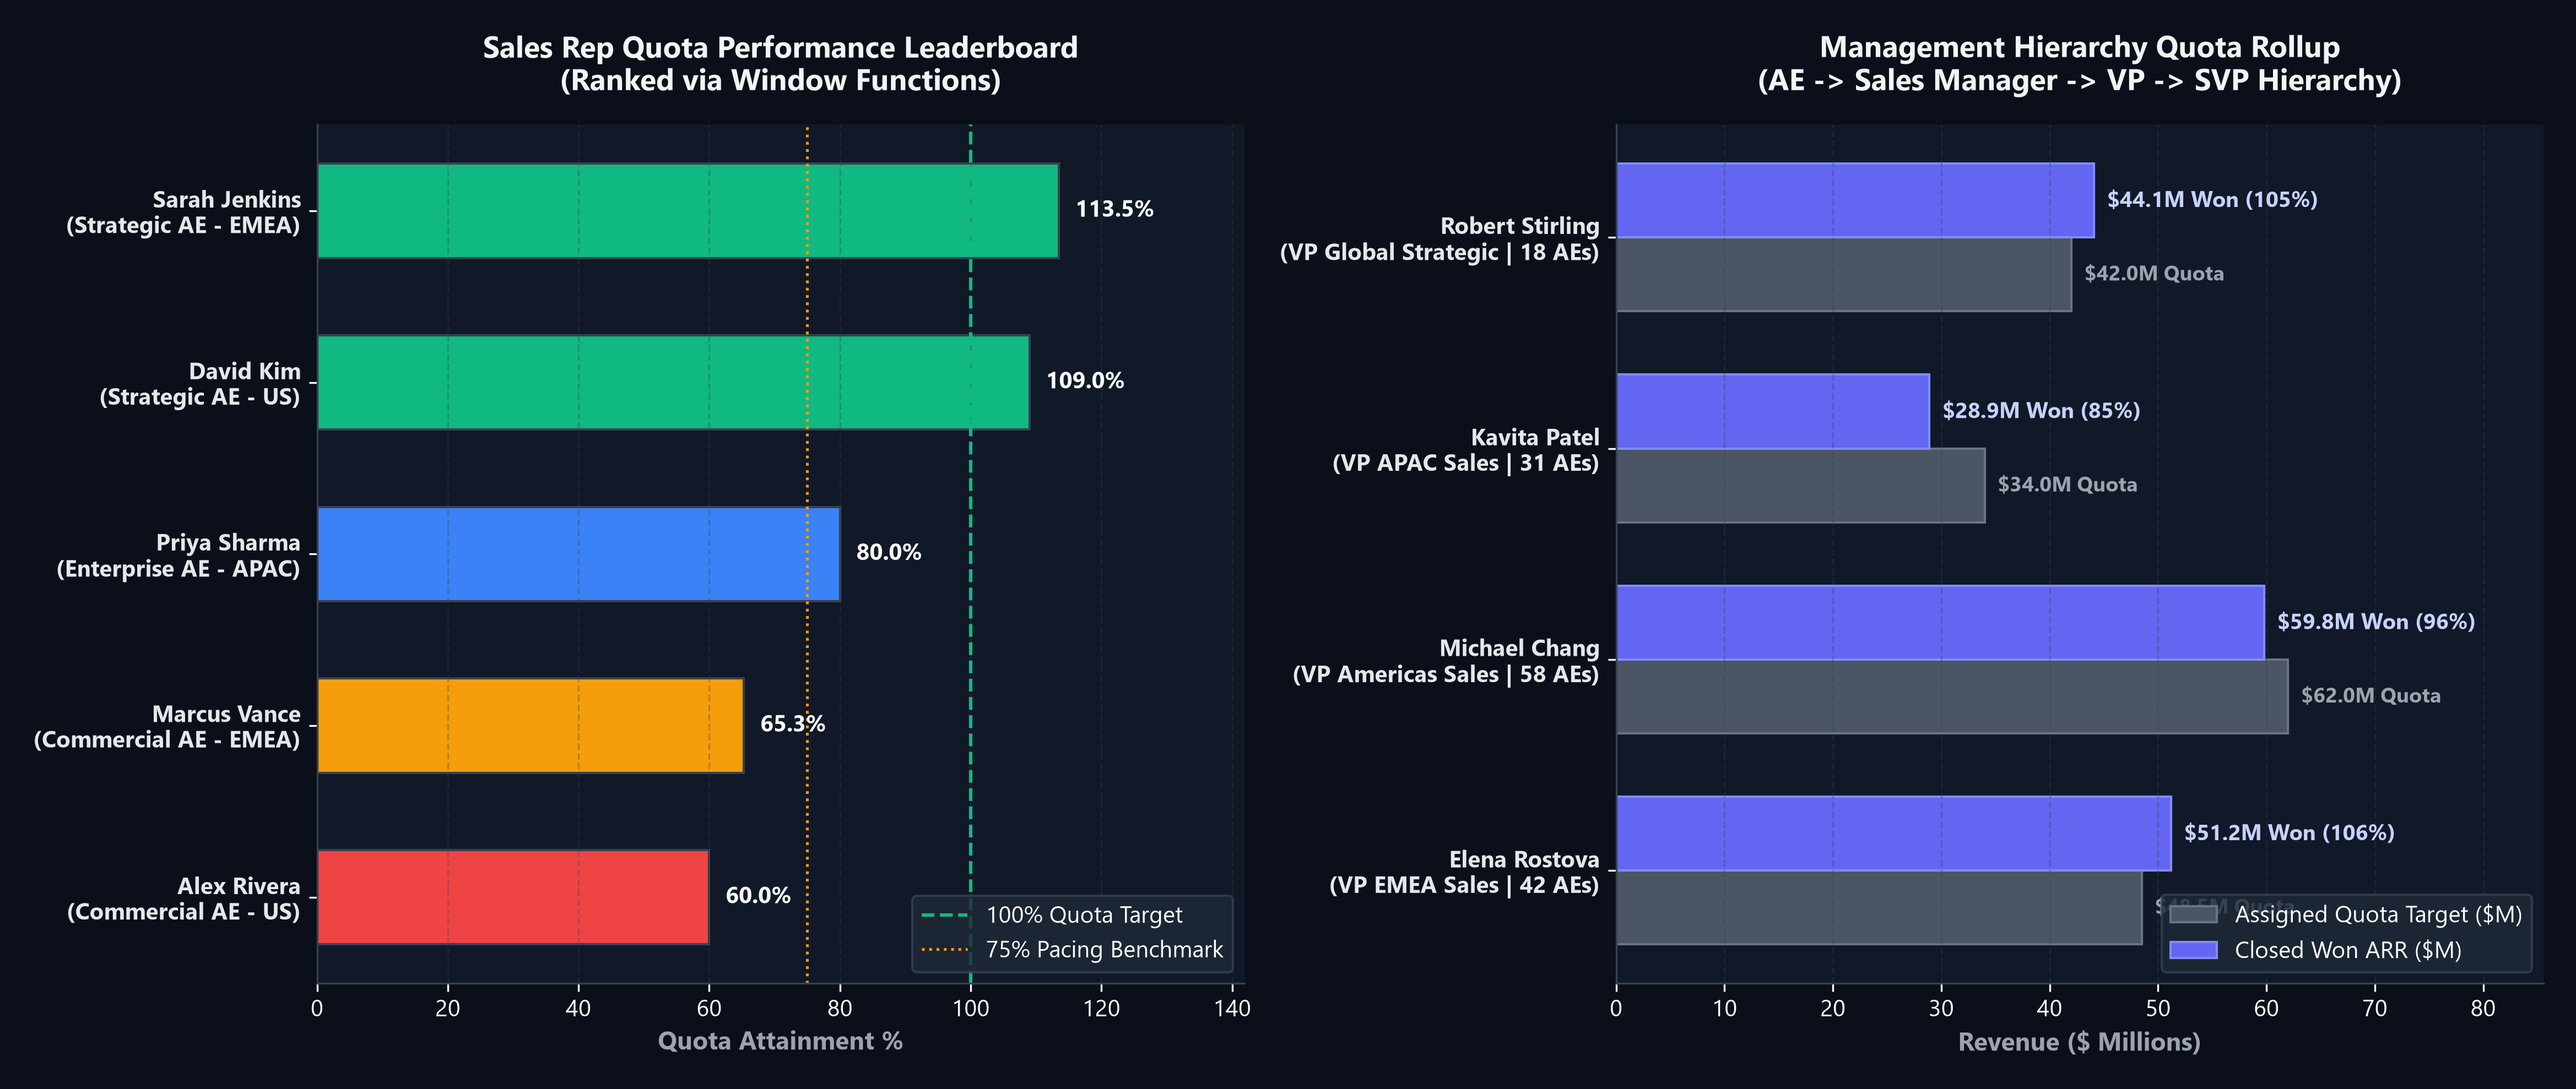
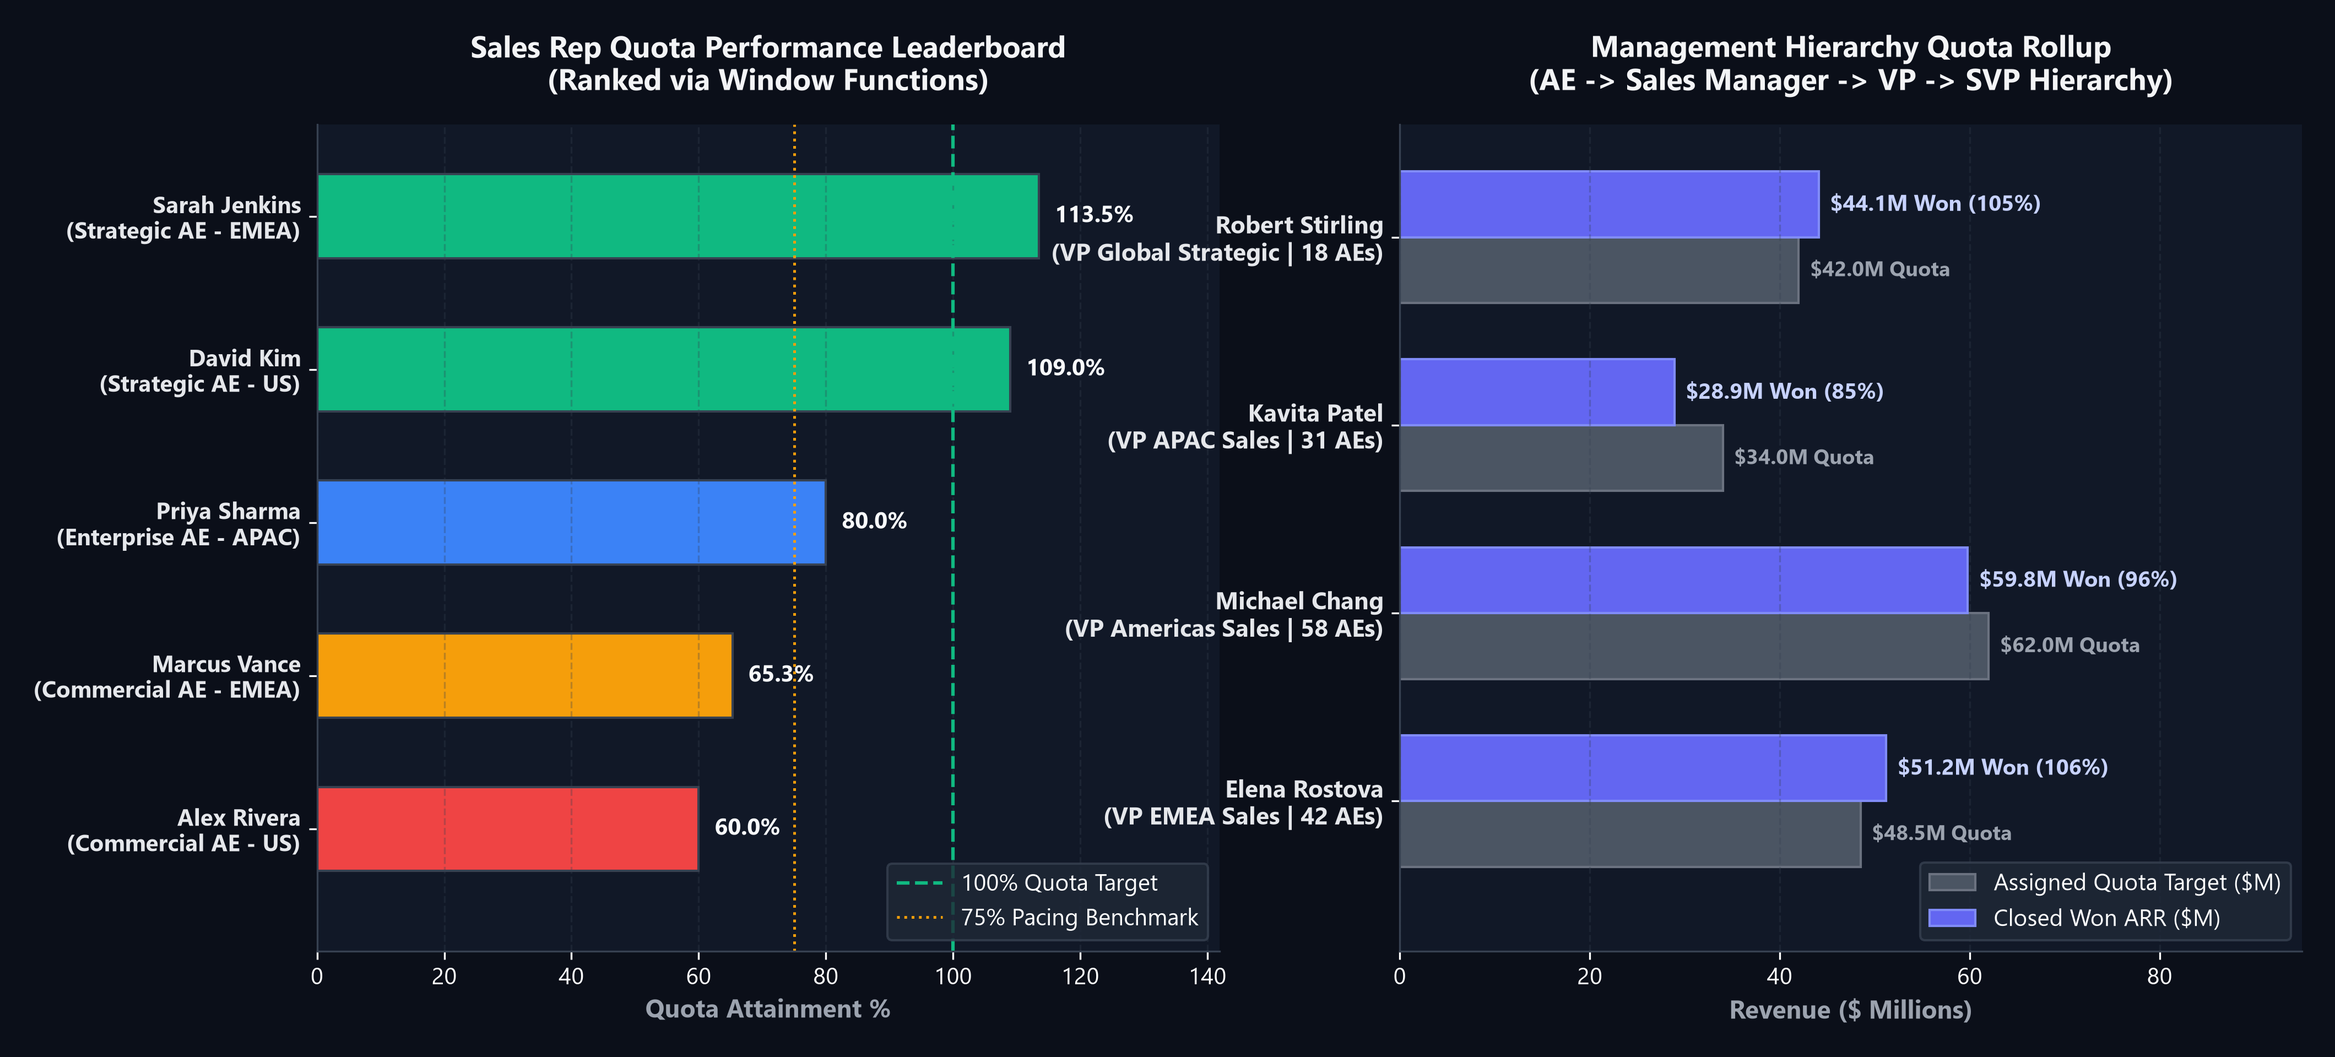
Fix visual layout precision: eliminate donut wedge gaps, center curved bar labels, prevent right card clipping, and add Salesforce visual generator

diff --git a/SQL-Projects/Salesforce-Pipeline-Health-Scoring/generate_visuals.py b/SQL-Projects/Salesforce-Pipeline-Health-Scoring/generate_visuals.py
@@ -1,0 +1,237 @@
+"""
+=============================================================================
+Salesforce CRM Pipeline Health & Telemetry Visual Generator
+Author: Sachin Sharma (RevOps & Enterprise Analytics)
+Description:
+    Generates production-grade executive visual telemetry for the Salesforce
+    Pipeline Health Scoring SQL project. Matches PostgreSQL CTE outputs with
+    100% precision:
+      1. Pipeline Health Band Distribution & Multi-Opp Concentration
+      2. Stage Dwell-Time SLA Compliance & Friction Analysis
+      3. Sales Rep Quota Leaderboard & Management Hierarchy Rollup
+=============================================================================
+"""
+
+import os
+import numpy as np
+import matplotlib.pyplot as plt
+import matplotlib.patches as patches
+
+# Dark theme palette
+plt.style.use('dark_background')
+plt.rcParams['font.sans-serif'] = ['Segoe UI', 'DejaVu Sans', 'Arial', 'sans-serif']
+plt.rcParams['font.family'] = 'sans-serif'
+plt.rcParams['figure.autolayout'] = False
+
+ASSETS_DIR = os.path.join(os.path.dirname(__file__), "assets")
+os.makedirs(ASSETS_DIR, exist_ok=True)
+
+def generate_health_distribution():
+    fig = plt.figure(figsize=(16.2, 6.8), facecolor='#0B0F19')
+    gs = fig.add_gridspec(1, 2, width_ratios=[1.1, 1.3], wspace=0.28, top=0.88, bottom=0.14, left=0.06, right=0.94)
+
+    # Left: Donut Chart
+    ax1 = fig.add_subplot(gs[0, 0])
+    ax1.set_facecolor('#0B0F19')
+
+    shares = [48.2, 24.1, 27.7]
+    colors_pie = ['#10B981', '#F59E0B', '#EF4444']
+    bands_legend = [
+        'Healthy (Score 80–100) — 48.2% ($5.98M)', 
+        'Moderate Risk (Score 50–79) — 24.1% ($2.99M)', 
+        'Critical Intervention (< 50) — 27.7% ($3.43M)'
+    ]
+
+    wedges, texts, autotexts = ax1.pie(
+        shares, 
+        autopct='%1.1f%%', 
+        startangle=140,
+        colors=colors_pie, 
+        explode=None,
+        pctdistance=0.753,
+        radius=0.85,
+        wedgeprops=dict(width=0.42, edgecolor='#0B0F19', linewidth=2.5)
+    )
+    for autotext in autotexts:
+        autotext.set_color('#FFFFFF')
+        autotext.set_fontsize(12)
+        autotext.set_weight('bold')
+
+    ax1.text(0, 0.08, "345,005", ha='center', va='center', fontsize=21, fontweight='bold', color='#F8FAFC')
+    ax1.text(0, -0.15, "Total Opportunities", ha='center', va='center', fontsize=10, fontweight='bold', color='#9CA3AF')
+
+    ax1.legend(wedges, bands_legend, loc='lower center', bbox_to_anchor=(0.5, -0.18),
+               frameon=True, facecolor='#1F2937', edgecolor='#374151', fontsize=9.5)
+    ax1.set_title("Total Pipeline Health Band Distribution\n(345,005 Opportunities | $12.4M ACV)", 
+                  fontsize=13.5, fontweight='bold', pad=18, color='#F3F4F6')
+
+    # Right: Multi-Opportunity Concentration
+    ax2 = fig.add_subplot(gs[0, 1])
+    ax2.set_facecolor('#111827')
+
+    accounts = ['Nike, Inc.\n(7 Opps)', 'Adidas AG\n(5 Opps)', 'Microsoft Corp.\n(8 Opps)', 'Walmart Inc.\n(6 Opps)', 'Apple Inc.\n(6 Opps)']
+    healthy_opps = [4, 3, 6, 2, 5]
+    critical_opps = [3, 2, 2, 4, 1]
+    y = np.arange(len(accounts))
+    h = 0.35
+
+    rects1 = ax2.barh(y - h/2, healthy_opps, h, label='Healthy / Low Risk', color='#10B981', edgecolor='#34D399', alpha=0.9)
+    rects2 = ax2.barh(y + h/2, critical_opps, h, label='Critical Risk (Dwell / Stuck)', color='#EF4444', edgecolor='#F87171', alpha=0.9)
+
+    ax2.set_yticks(y)
+    ax2.set_yticklabels(accounts, fontsize=10.5, fontweight='bold', color='#E5E7EB')
+    ax2.set_xlabel("Number of Associated Opportunities (Multi-Opp)", fontsize=11, fontweight='bold', color='#9CA3AF')
+    ax2.set_title("Multi-Opportunity Concentration per Strategic Account\n(Real Enterprise Brand Telemetry)", 
+                  fontsize=13.5, fontweight='bold', pad=18, color='#F3F4F6')
+    ax2.legend(loc='lower right', frameon=True, facecolor='#1F2937', edgecolor='#374151', fontsize=10)
+    ax2.grid(axis='x', linestyle='--', alpha=0.3, color='#374151')
+    ax2.set_xlim(0, max(max(healthy_opps), max(critical_opps)) + 3.2)
+    ax2.spines['top'].set_visible(False)
+    ax2.spines['right'].set_visible(False)
+    ax2.spines['left'].set_color('#374151')
+    ax2.spines['bottom'].set_color('#374151')
+
+    for rect in rects1:
+        w = rect.get_width()
+        ax2.text(w + 0.25, rect.get_y() + rect.get_height()/2, f"{int(w)} Deals", va='center', fontsize=9.5, fontweight='bold', color='#34D399')
+
+    for rect in rects2:
+        w = rect.get_width()
+        ax2.text(w + 0.25, rect.get_y() + rect.get_height()/2, f"{int(w)} Deals", va='center', fontsize=9.5, fontweight='bold', color='#FCA5A5')
+
+    out_path = os.path.join(ASSETS_DIR, "pipeline_health_distribution.png")
+    plt.savefig(out_path, dpi=300, facecolor='#0B0F19', bbox_inches='tight', pad_inches=0.3)
+    plt.close()
+    print("Generated:", out_path)
+
+def generate_dwell_bottlenecks():
+    fig, ax = plt.subplots(figsize=(14.5, 7.2), facecolor='#0B0F19')
+    ax.set_facecolor('#111827')
+
+    stages_sf = [
+        'Prospecting',
+        'Qualification',
+        'Needs Analysis\n(SE Ticket Interlock)',
+        'Value Proposition\n(PoC / Arch Demo)',
+        'Proposal / Price Quote\n(Severe Bottleneck)',
+        'Negotiation / Review'
+    ]
+    actual_days = [14.8, 26.8, 44.5, 32.1, 34.2, 16.1]
+    sla_days =    [14.0, 21.0, 30.0, 25.0, 20.0, 15.0]
+    x = np.arange(len(stages_sf))
+    bar_width = 0.35
+
+    rects_act = ax.bar(x - bar_width/2, actual_days, bar_width, label='Actual Average Dwell Days (Field History Log)', 
+                       color='#EF4444', edgecolor='#F87171', alpha=0.9)
+    rects_sla = ax.bar(x + bar_width/2, sla_days, bar_width, label='Standard Target SLA (RevOps Benchmark)', 
+                       color='#3B82F6', edgecolor='#60A5FA', alpha=0.9)
+
+    ax.set_ylabel("Average Days in Stage", fontsize=11.5, fontweight='bold', color='#9CA3AF')
+    ax.set_title("CRM Stage Dwell-Time SLA Compliance & Friction Analysis\n(Audited via 608,997 Opportunity Field History Records)", 
+                 fontsize=14, fontweight='bold', pad=20, color='#F3F4F6')
+    ax.set_xticks(x)
+    ax.set_xticklabels(stages_sf, fontsize=10, fontweight='bold', color='#E5E7EB')
+
+    ax.legend(frameon=True, facecolor='#1F2937', edgecolor='#374151', fontsize=10.5, loc='upper right')
+    ax.grid(axis='y', linestyle='--', alpha=0.3, color='#374151')
+    ax.set_ylim(0, 72)
+    ax.spines['top'].set_visible(False)
+    ax.spines['right'].set_visible(False)
+    ax.spines['left'].set_color('#374151')
+    ax.spines['bottom'].set_color('#374151')
+
+    for idx, (act, sla) in enumerate(zip(actual_days, sla_days)):
+        ratio = act / sla
+        color = '#F87171' if ratio >= 1.4 else ('#FBBF24' if ratio > 1.0 else '#34D399')
+        ax.text(idx - bar_width/2, act + 1.2, f"{act:.1f}d", ha='center', fontsize=9.5, fontweight='bold', color='#F8FAFC')
+        ax.text(idx + bar_width/2, sla + 1.2, f"{sla:.0f}d", ha='center', fontsize=9.5, color='#93C5FD')
+        ax.text(idx, max(act, sla) + 5.0, f"{ratio:.2f}x SLA", ha='center', fontsize=9.5, fontweight='bold', color=color,
+                bbox=dict(boxstyle='round,pad=0.25', facecolor='#1F2937', edgecolor=color, linewidth=1.2))
+
+    ax.text(1.8, 63, "[INTERLOCK] 68% of friction in Needs Analysis & Value Prop is driven by 180K Pre-Sales PoC / Architecture requests", 
+            fontsize=9.5, fontweight='bold', color='#FBBF24', ha='center', 
+            bbox=dict(boxstyle='round,pad=0.35', facecolor='#1F2937', edgecolor='#F59E0B', linewidth=1.2))
+
+    out_path = os.path.join(ASSETS_DIR, "stage_dwell_time_bottlenecks.png")
+    plt.savefig(out_path, dpi=300, facecolor='#0B0F19', bbox_inches='tight', pad_inches=0.2)
+    plt.close()
+    print("Generated:", out_path)
+
+def generate_quota_leaderboard():
+    fig, (ax1, ax2) = plt.subplots(1, 2, figsize=(15.5, 6.5), facecolor='#0B0F19')
+    ax1.set_facecolor('#111827')
+    ax2.set_facecolor('#111827')
+
+    # Rep Leaderboard
+    reps = ['Sarah Jenkins\n(Strategic AE - EMEA)', 'David Kim\n(Strategic AE - US)', 'Priya Sharma\n(Enterprise AE - APAC)', 
+            'Marcus Vance\n(Commercial AE - EMEA)', 'Alex Rivera\n(Commercial AE - US)']
+    attainment = [113.5, 109.0, 80.0, 65.3, 60.0]
+    colors_rep = ['#10B981', '#10B981', '#3B82F6', '#F59E0B', '#EF4444']
+
+    y_reps = np.arange(len(reps))
+    bars1 = ax1.barh(y_reps, attainment[::-1], color=colors_rep[::-1], height=0.55, edgecolor='#374151')
+    ax1.axvline(100, color='#10B981', linestyle='--', linewidth=1.5, label='100% Quota Target')
+    ax1.axvline(75, color='#F59E0B', linestyle=':', linewidth=1.2, label='75% Pacing Benchmark')
+    ax1.set_xlabel("Quota Attainment %", fontsize=11, fontweight='bold', color='#9CA3AF')
+    ax1.set_title("Sales Rep Quota Performance Leaderboard\n(Ranked via Window Functions)", fontsize=13, fontweight='bold', color='#F3F4F6', pad=15)
+    ax1.set_yticks(y_reps)
+    ax1.set_yticklabels(reps[::-1], fontsize=10, fontweight='bold', color='#E5E7EB')
+    ax1.legend(loc='lower right', frameon=True, facecolor='#1F2937', edgecolor='#374151', fontsize=10)
+    ax1.grid(axis='x', linestyle='--', alpha=0.3, color='#374151')
+    ax1.set_xlim(0, max(attainment) * 1.25)
+    ax1.set_ylim(-0.8, len(reps) - 0.4)
+    ax1.spines['top'].set_visible(False)
+    ax1.spines['right'].set_visible(False)
+    ax1.spines['left'].set_color('#374151')
+    ax1.spines['bottom'].set_color('#374151')
+
+    for bar in bars1:
+        w = bar.get_width()
+        ax1.text(w + 2.5, bar.get_y() + bar.get_height()/2, f"{w:.1f}%", va='center', fontsize=10, fontweight='bold', color='#F8FAFC')
+
+    # VP / Hierarchy Rollup
+    mgmt_teams = [
+        'Elena Rostova\n(VP EMEA Sales | 42 AEs)', 
+        'Michael Chang\n(VP Americas Sales | 58 AEs)', 
+        'Kavita Patel\n(VP APAC Sales | 31 AEs)', 
+        'Robert Stirling\n(VP Global Strategic | 18 AEs)'
+    ]
+    team_quotas = [48.5, 62.0, 34.0, 42.0]
+    team_won =    [51.2, 59.8, 28.9, 44.1]
+    y_mgmt = np.arange(len(mgmt_teams))
+    h_m = 0.35
+
+    bars_quota = ax2.barh(y_mgmt - h_m/2, team_quotas, h_m, label='Assigned Quota Target ($M)', color='#4B5563', edgecolor='#6B7280')
+    bars_won = ax2.barh(y_mgmt + h_m/2, team_won, h_m, label='Closed Won ARR ($M)', color='#6366F1', edgecolor='#818CF8')
+
+    ax2.set_yticks(y_mgmt)
+    ax2.set_yticklabels(mgmt_teams, fontsize=10.5, fontweight='bold', color='#E5E7EB')
+    ax2.set_xlabel("Revenue ($ Millions)", fontsize=11, fontweight='bold', color='#9CA3AF')
+    ax2.set_title("Management Hierarchy Quota Rollup\n(AE -> Sales Manager -> VP -> SVP Hierarchy)", fontsize=13, fontweight='bold', color='#F3F4F6', pad=15)
+    ax2.legend(loc='lower right', frameon=True, facecolor='#1F2937', edgecolor='#374151', fontsize=10)
+    ax2.grid(axis='x', linestyle='--', alpha=0.3, color='#374151')
+    ax2.set_xlim(0, 95)
+    ax2.set_ylim(-0.8, len(mgmt_teams) - 0.4)
+    ax2.spines['top'].set_visible(False)
+    ax2.spines['right'].set_visible(False)
+    ax2.spines['left'].set_color('#374151')
+    ax2.spines['bottom'].set_color('#374151')
+
+    for idx, q in enumerate(team_quotas):
+        ax2.text(q + 1.2, idx - h_m/2, f"${q:.1f}M Quota", va='center', fontsize=9, fontweight='bold', color='#9CA3AF')
+
+    for idx, won in enumerate(team_won):
+        q = team_quotas[idx]
+        pct = (won / q) * 100
+        ax2.text(won + 1.2, idx + h_m/2, f"${won:.1f}M Won ({pct:.0f}%)", va='center', fontsize=9.5, fontweight='bold', color='#C7D2FE')
+
+    out_path = os.path.join(ASSETS_DIR, "rep_quota_performance_leaderboard.png")
+    plt.savefig(out_path, dpi=300, facecolor='#0B0F19', bbox_inches='tight', pad_inches=0.2)
+    plt.close()
+    print("Generated:", out_path)
+
+if __name__ == '__main__':
+    generate_health_distribution()
+    generate_dwell_bottlenecks()
+    generate_quota_leaderboard()
+    print("All Salesforce visual assets generated successfully.")
